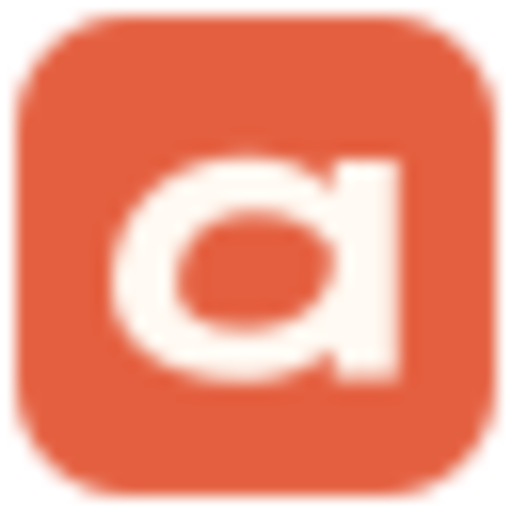
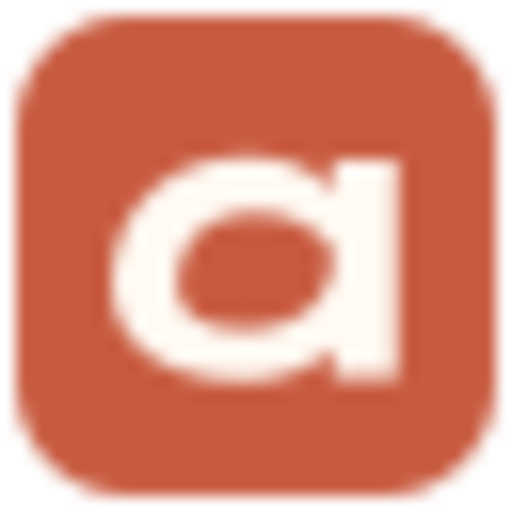
refactor(showcase): refine Abalone visual tone

diff --git a/site/styles.css b/site/styles.css
@@ -1,22 +1,22 @@
 :root {
   color-scheme: light;
-  --brand-canvas: #f8f3eb;
-  --brand-surface: #fffdfc;
-  --brand-surface-subtle: #f2ede5;
-  --brand-control: #eee7dd;
-  --brand-ink: #18312d;
+  --brand-canvas: #f7f2ea;
+  --brand-surface: #fffcf8;
+  --brand-surface-subtle: #f0ebe3;
+  --brand-control: #e9e2d8;
+  --brand-ink: #16312d;
   --brand-ink-secondary: #4b5d58;
-  --brand-ink-muted: #687873;
-  --brand-border: rgb(24 49 45 / 14%);
-  --brand-border-strong: rgb(24 49 45 / 24%);
-  --brand-accent: #0b6f68;
+  --brand-ink-muted: #6a7873;
+  --brand-border: rgb(22 49 45 / 14%);
+  --brand-border-strong: rgb(22 49 45 / 24%);
+  --brand-accent: #0d6b64;
   --brand-accent-strong: #07534e;
-  --brand-accent-soft: #ddeeea;
+  --brand-accent-soft: #dceae6;
   --brand-on-accent: #ffffff;
-  --brand-signature: #e45f3f;
-  --brand-signature-strong: #b44830;
-  --brand-signature-soft: #fbe4db;
-  --brand-focus: #0b6f68;
+  --brand-signature: #c85a3f;
+  --brand-signature-strong: #9b3e2e;
+  --brand-signature-soft: #f3ddd3;
+  --brand-focus: #0d6b64;
   --brand-on-dark: #fffaf3;
   --brand-on-dark-muted: #c5d2cd;
   --brand-on-dark-border: rgb(255 250 243 / 18%);
@@ -40,6 +40,8 @@
   --warning-soft: #fff8e8;
   --danger: #b42318;
   --danger-soft: #fff1f0;
+  --information: #355f7b;
+  --information-soft: #eaf1f5;
   --media-overlay: rgb(16 19 24 / 88%);
 }
 
@@ -60,7 +62,6 @@ body {
   margin: 0;
   min-width: 320px;
   overflow-x: hidden;
-  border-top: 4px solid var(--brand-signature);
   background: var(--canvas);
   color: var(--text);
   font-family: -apple-system, BlinkMacSystemFont, "Pretendard", "Segoe UI", sans-serif;
@@ -218,20 +219,31 @@ footer {
   display: grid;
   grid-template-columns: minmax(0, 1.1fr) minmax(400px, 0.9fr);
   align-items: center;
-  gap: 48px;
-  padding: 72px 0 64px;
+  gap: 64px;
+  padding: 88px 0 80px;
 }
 
 .hero::before {
   position: absolute;
   z-index: -1;
   inset: 0 calc(50% - 50vw);
-  background: var(--brand-signature-soft);
+  border-block: 1px solid var(--border);
+  background: var(--surface);
   content: "";
 }
 
 .hero-copy {
+  position: relative;
   max-width: 620px;
+  padding-left: 28px;
+}
+
+.hero-copy::before {
+  position: absolute;
+  inset: 6px auto 6px 0;
+  width: 2px;
+  background: var(--brand-signature);
+  content: "";
 }
 
 .eyebrow {
@@ -246,16 +258,16 @@ footer {
 }
 
 .eyebrow span {
-  width: 24px;
-  height: 4px;
-  border-radius: 2px;
+  width: 18px;
+  height: 2px;
+  border-radius: 1px;
   background: var(--brand-signature);
 }
 
 h1 {
   margin-bottom: 20px;
-  font-size: clamp(36px, 3.8vw, 48px);
-  font-weight: 650;
+  font-size: clamp(36px, 3.8vw, 50px);
+  font-weight: 600;
   line-height: 1.14;
   letter-spacing: -0.025em;
 }
@@ -266,8 +278,8 @@ h1 em {
   text-decoration: underline;
   text-decoration-color: var(--brand-signature);
   text-decoration-skip-ink: auto;
-  text-decoration-thickness: 0.12em;
-  text-underline-offset: 0.13em;
+  text-decoration-thickness: 0.07em;
+  text-underline-offset: 0.17em;
 }
 
 .intro {
@@ -349,7 +361,7 @@ h1 em {
   width: 7px;
   height: 7px;
   border-radius: 50%;
-  background: var(--success);
+  background: var(--information);
 }
 
 .route-card {
@@ -360,9 +372,9 @@ h1 em {
 }
 
 .catalog-console {
-  padding: 24px;
-  border: 0;
-  border-top: 8px solid var(--brand-signature);
+  padding: 28px;
+  border: 1px solid var(--brand-on-dark-border);
+  border-left: 3px solid var(--brand-signature);
   background: var(--brand-ink);
   color: var(--brand-on-dark);
 }
@@ -387,7 +399,7 @@ h1 em {
   display: inline-flex;
   align-items: center;
   gap: 6px;
-  color: var(--success);
+  color: var(--text-secondary);
   font-size: 12px;
   font-weight: 650;
 }
@@ -475,24 +487,19 @@ h1 em {
 
 .progress-stack b {
   padding: 3px 8px;
-  border-radius: 999px;
+  border-radius: 4px;
   background: var(--control);
   color: var(--text-secondary);
   font-size: 11px;
   font-weight: 600;
 }
 
-.progress-stack .safe-step b {
-  background: var(--success-soft);
-  color: var(--success);
-}
-
-.catalog-console .progress-stack > div:nth-child(1) b {
+.catalog-console .narrative-discovery b {
   background: var(--brand-signature-soft);
   color: var(--brand-signature-strong);
 }
 
-.catalog-console .progress-stack > div:nth-child(2) b {
+.catalog-console .narrative-validation b {
   background: var(--brand-accent-soft);
   color: var(--brand-accent-strong);
 }
@@ -713,8 +720,8 @@ h1 em {
   flex: none;
   padding: 4px 8px;
   border-radius: 999px;
-  background: var(--success-soft);
-  color: var(--success);
+  background: var(--information-soft);
+  color: var(--information);
   font-size: 11px;
   font-weight: 650;
 }
@@ -727,9 +734,9 @@ h1 em {
   content: "";
 }
 
-.app-status.prototype-status {
-  background: var(--accent-soft);
-  color: var(--accent);
+.app-status.success-status {
+  background: var(--success-soft);
+  color: var(--success);
 }
 
 .program-group + .program-group {
@@ -757,8 +764,8 @@ h1 em {
 }
 
 .program-group-heading h3::before {
-  width: 24px;
-  height: 4px;
+  width: 18px;
+  height: 2px;
   flex: none;
   border-radius: 2px;
   background: var(--brand-signature);
@@ -849,8 +856,8 @@ h1 em {
   padding: 16px;
   border: 1px solid var(--border-strong);
   border-radius: 8px;
-  background: var(--accent-soft);
-  color: var(--accent);
+  background: var(--information-soft);
+  color: var(--information);
   font-size: 12px;
   font-weight: 550;
   line-height: 1.65;
@@ -864,8 +871,8 @@ h1 em {
   padding: 20px;
   border: 1px solid var(--border);
   border-radius: 8px;
-  border-color: rgb(180 72 48 / 24%);
-  background: var(--brand-signature-soft);
+  border-color: rgb(53 95 123 / 24%);
+  background: var(--information-soft);
 }
 
 .notice-icon {
@@ -875,7 +882,7 @@ h1 em {
   flex: none;
   place-items: center;
   border-radius: 50%;
-  background: var(--brand-signature);
+  background: var(--information);
   color: var(--brand-on-dark);
   font-family: Georgia, serif;
   font-size: 13px;
@@ -903,7 +910,8 @@ h1 em {
   position: absolute;
   z-index: -1;
   inset: 0 calc(50% - 50vw);
-  background: var(--brand-signature-soft);
+  border-bottom: 1px solid var(--border);
+  background: var(--surface);
   content: "";
 }
 
@@ -1200,7 +1208,7 @@ h1 em {
 }
 
 .form-status[data-state="busy"] {
-  color: var(--accent);
+  color: var(--information);
 }
 
 .form-status[data-state="success"] {
@@ -1282,7 +1290,7 @@ h1 em {
   padding: 0;
   overflow: hidden;
   border: 1px solid var(--border-strong);
-  border-top: 6px solid var(--brand-signature);
+  border-top: 3px solid var(--brand-signature);
   border-radius: 10px;
   background: var(--surface);
   color: var(--text);

diff --git a/site/app.js b/site/app.js
@@ -22,8 +22,8 @@ function eyebrow(text) {
   return node;
 }
 
-function statusBadge(text = "설치 인증코드 필요") {
-  return element("span", "app-status", text);
+function statusBadge(text = "설치 인증코드 필요", tone = "information") {
+  return element("span", `app-status ${tone}-status`, text);
 }
 
 function isPrototype(app) {
@@ -148,8 +148,10 @@ function renderCatalogCard(app, index) {
   actions.append(link("primary-action", "사례 보기", routeHref("apps", app.id)));
   if (hasInstallRoute(app)) actions.append(link("secondary-action", isPrototype(app) ? "제공 상태" : "설치 정보", routeHref("install", app.id)));
   copy.append(flow, actions);
-  const badge = statusBadge(isPrototype(app) ? "기능 데모 · 파일 없음" : "설치 가능");
-  if (isPrototype(app)) badge.classList.add("prototype-status");
+  const badge = statusBadge(
+    isPrototype(app) ? "기능 데모 · 파일 없음" : "설치 가능",
+    isPrototype(app) ? "information" : "success",
+  );
   if (!isPrototype(app) && app.demoGif) {
     card.classList.add("evidence-card");
     copy.prepend(badge);
@@ -205,12 +207,12 @@ function renderCatalog(catalog, page) {
     element("p", "", "현업의 말과 화면을 바탕으로 필요한 범위를 함께 정합니다."),
   );
   const progress = element("div", "progress-stack");
-  for (const [step, name, detail, state] of [
-    ["01", "업무 이해", "사람·순서·규칙·예외 확인", "발견"],
-    ["02", "작은 검증", "중요한 흐름부터 실제 화면으로 확인", "검증"],
-    ["03", "적용과 개선", "사용 결과를 보고 합의한 범위에서 보완", "개선"],
+  for (const [step, name, detail, state, narrativeClass] of [
+    ["01", "업무 이해", "사람·순서·규칙·예외 확인", "발견", "narrative-discovery"],
+    ["02", "작은 검증", "중요한 흐름부터 실제 화면으로 확인", "검증", "narrative-validation"],
+    ["03", "적용과 개선", "사용 결과를 보고 합의한 범위에서 보완", "개선", "narrative-improvement"],
   ]) {
-    const row = element("div", state === "개선" ? "safe-step" : "");
+    const row = element("div", narrativeClass);
     const description = element("p");
     description.append(element("strong", "", name), document.createTextNode(detail));
     row.append(element("span", "", step), description, element("b", "", state));
@@ -278,7 +280,6 @@ function renderDetail(app, page) {
   const copy = element("div");
   copy.append(element("h1", "", app.name), element("p", "intro", app.description));
   const badge = statusBadge(isPrototype(app) ? "기능 데모 · 파일 없음" : "설치 인증코드 필요");
-  if (isPrototype(app)) badge.classList.add("prototype-status");
   header.append(copy, badge);
   const actions = element("div", "hero-actions");
   if (hasInstallRoute(app)) actions.append(link("primary-action", "설치 페이지로 이동", routeHref("install", app.id)));

diff --git a/site/index.html b/site/index.html
@@ -7,7 +7,7 @@
       name="description"
       content="고객의 업종과 실제 업무 흐름을 이해한 뒤 필요한 프로그램을 설계하고 검증하는 원격 밀착형 서비스와 제작 사례를 살펴보세요."
     />
-    <meta name="theme-color" content="#E45F3F" />
+    <meta name="theme-color" content="#16312D" />
     <title>Abalone — 업무 맞춤 프로그램 제작</title>
     <link rel="icon" href="./abalone-favicon-v2.svg" type="image/svg+xml" />
     <link rel="icon" href="./abalone-favicon-v2-32.png" sizes="32x32" type="image/png" />

diff --git a/docs/showcase-ux-contract.md b/docs/showcase-ux-contract.md
@@ -24,9 +24,9 @@ When the assistant considers the brief ready, the visitor can expand and review 
 ## Visual direction
 
 - Feel close to real work and calm about complexity: operational, readable, truthful, and quietly polished.
-- Keep `nohdol-clean` as the functional base and map the separate Abalone layer to warm `brand.canvas #F8F3EB`, deep `brand.ink #18312D`, action/focus `brand.accent #0B6F68`, and warm identity `brand.signature #E45F3F`; semantic status colors remain independent.
+- Keep `nohdol-clean` as the functional base and map the separate Abalone layer to warm `brand.canvas #F7F2EA`, deep `brand.ink #16312D`, action/focus `brand.accent #0D6B64`, and burnished identity `brand.signature #C85A3F`; semantic status colors remain independent.
 - Use a 4px spacing grid, 6px controls, 8px grouped surfaces, and 10px floating or emphasized surfaces.
-- Use borders and small surface shifts for depth. The public hero and route introductions may use bounded deep-ink and warm-signature solid fields for identity, while ordinary content has no drop shadow.
+- Use borders and small surface shifts for depth. The public hero and route introductions use a restrained warm surface, asymmetric whitespace, a deep-ink process field, and thin signature rails rather than a large pastel wash; ordinary content has no drop shadow.
 - Use the native Korean-capable font stack and a compact type scale. Weight and tone create hierarchy before size.
 - The signature structure is one visible `업무 이해 -> 작은 검증 -> 적용과 개선` path. Do not repeat the same sequence as a trust strip and another feature list.
 - Keep the verified product group ahead of the deterministic demo group. Both may use cards because each program is independently selectable, but their headings, counts, badges, and availability language remain distinct.
